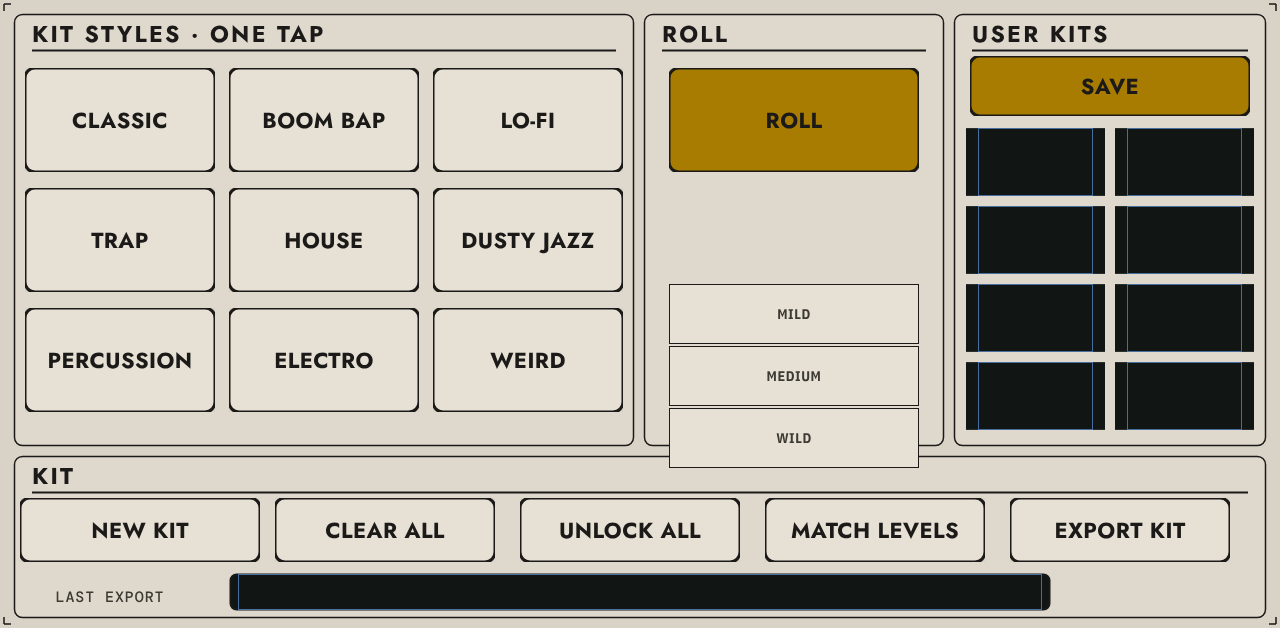
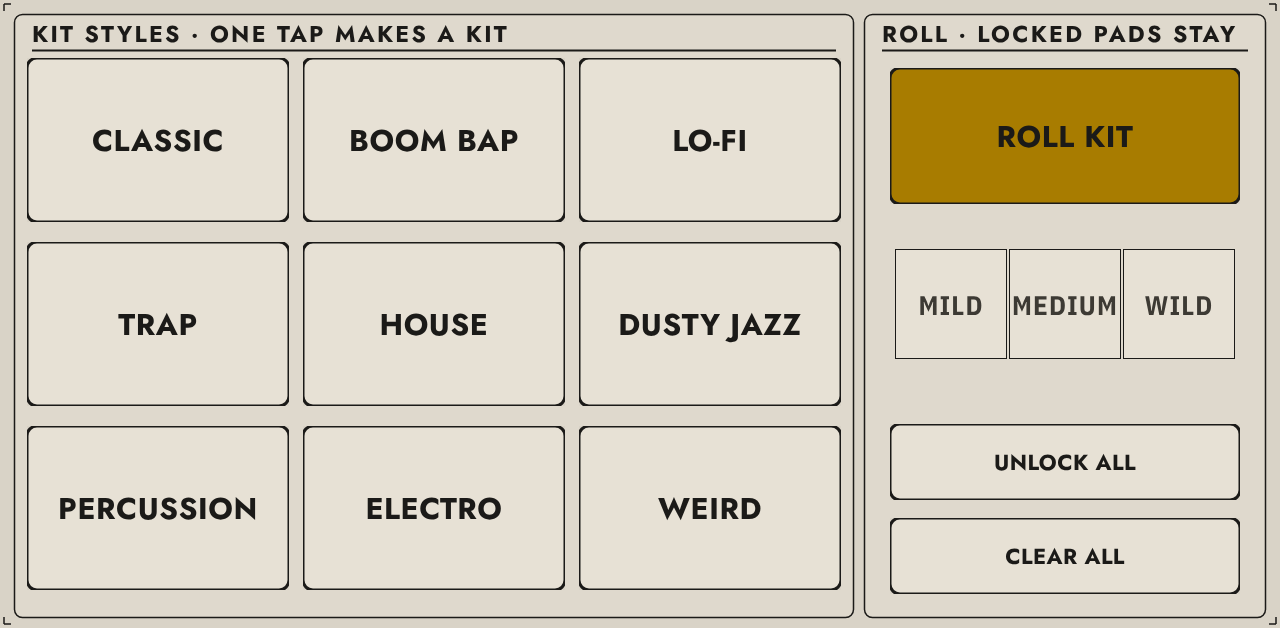
README pictures: the 1.1 KIT and STYLES pages
Claude-Session: https://claude.ai/code/session_01DJky7zyfpU1UnnPMkr92U8

diff --git a/README.md b/README.md
@@ -41,7 +41,7 @@ Free and open source (MIT), made by **PotentialBreaks**. It runs inside the MPC 
 | **SETUP** | Where samples come from and kits go, **RESCAN**, copy or link samples on export, **SKIP LOOPS**, **NO DUPLICATES**, **FOLLOW PLAYED PAD**, **MAX SIZE**, and the **LOOK** |
 | **MANUAL** | The manual, on the MPC's screen |
 
-![The STYLES page (1.0 picture)](docs/images/potentialkits-dip.png)
+![The STYLES page](docs/images/potentialkits-dip.png)
 
 ## Where it finds your samples
 
